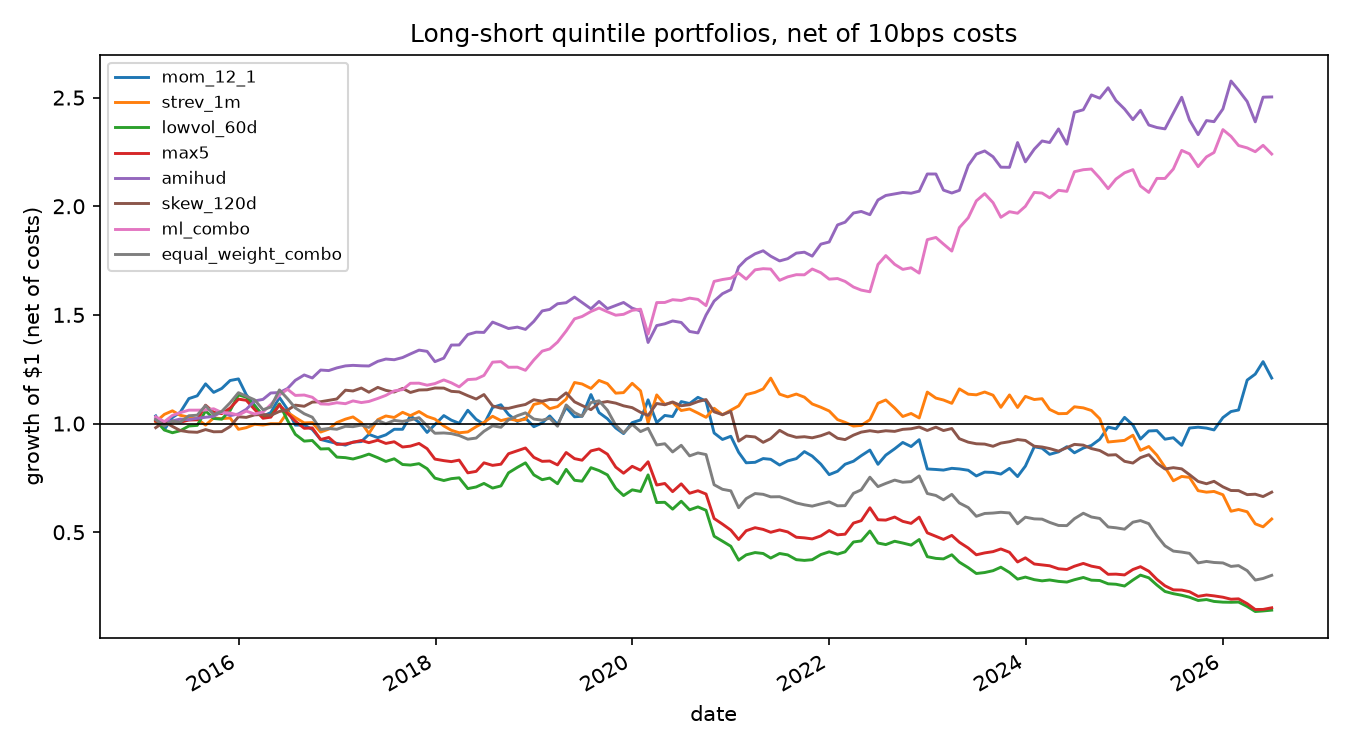
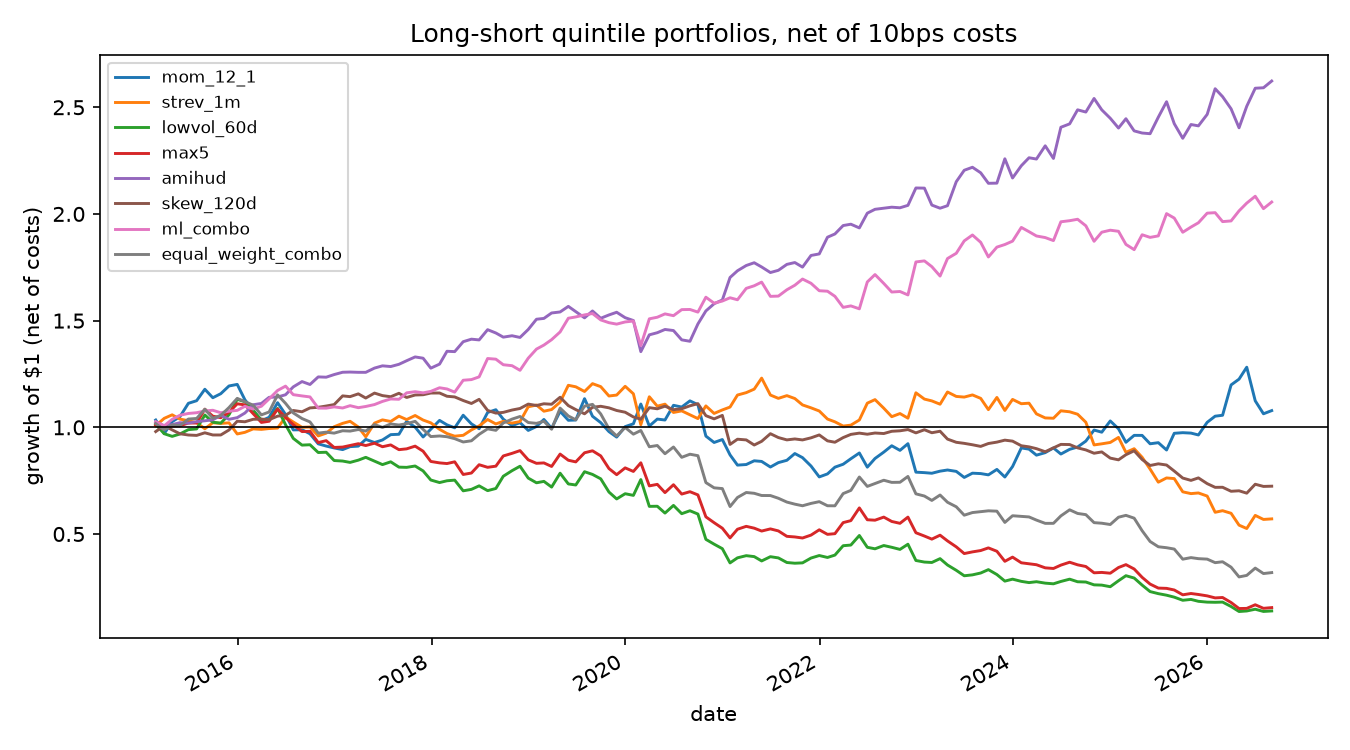
Regenerate the results table from an actual run
The committed table predated the quintile and winsorize fixes and two more months
of prices. Re-ran scripts/run_research.py end to end: amihud Sharpe 1.03 -> 1.07,
ml_combo 0.89 -> 0.77, and the three signals that were omitted before are in the
table now rather than only the four that looked good.

The qualitative result is unchanged and is the point of the repo: naively
averaging six z-scored signals loses 8.7% a year because three of them have
negative ICs, while the purged walk-forward model does the selection honestly.
Added the turnover comparison next to it, which matters more than the Sharpe -
amihud earns 1.07 on 0.14 turnover and ml_combo needs 1.12 to earn 0.77.

Running this at all needed libomp installed; the lightgbm wheel links OpenMP and
macOS does not ship it.

diff --git a/reports/results.md b/reports/results.md
@@ -1,37 +1,37 @@
 # Research run results
 
-Universe: 496 names | 2010-01 to 2026-07 | costs 10 bps | OOS window starts 2015-02
+Universe: 494 names | 2010-01 to 2026-09 | costs 10 bps | OOS window starts 2015-02
 
 ## Signal ICs (full sample)
 
 | signal     |   mean_ic |   ic_ir |   nw_tstat |   hit_rate |   n_months |
 |:-----------|----------:|--------:|-----------:|-----------:|-----------:|
-| amihud     |    0.0313 |  1.1138 |     5.1735 |     0.6205 |        195 |
-| mom_12_1   |    0.0089 |  0.1655 |     0.7834 |     0.5484 |        186 |
-| strev_1m   |    0.0072 |  0.1537 |     0.7361 |     0.4721 |        197 |
-| skew_120d  |   -0.0045 | -0.1786 |    -0.7443 |     0.4508 |        193 |
-| max5       |   -0.0151 | -0.2641 |    -1.1743 |     0.4772 |        197 |
-| lowvol_60d |   -0.0235 | -0.3462 |    -1.552  |     0.4643 |        196 |
+| amihud     |    0.0317 |  1.1376 |     5.3629 |     0.6294 |        197 |
+| mom_12_1   |    0.0075 |  0.1402 |     0.6697 |     0.5479 |        188 |
+| strev_1m   |    0.0059 |  0.1269 |     0.6142 |     0.4774 |        199 |
+| skew_120d  |   -0.0045 | -0.179  |    -0.7414 |     0.4615 |        195 |
+| max5       |   -0.0148 | -0.2565 |    -1.1655 |     0.4774 |        199 |
+| lowvol_60d |   -0.0226 | -0.3313 |    -1.5047 |     0.4697 |        198 |
 
 ## IC decay (mean IC by horizon, months)
 
 |    |   mom_12_1 |   strev_1m |   lowvol_60d |    max5 |   amihud |   skew_120d |
 |---:|-----------:|-----------:|-------------:|--------:|---------:|------------:|
-|  1 |     0.0089 |     0.0072 |      -0.0235 | -0.0151 |   0.0313 |     -0.0045 |
-|  2 |     0.0113 |     0.0089 |      -0.0393 | -0.0275 |   0.0463 |     -0.0056 |
-|  3 |     0.0111 |     0.0073 |      -0.0519 | -0.0366 |   0.0555 |     -0.0042 |
-|  6 |     0.0109 |    -0.0007 |      -0.0697 | -0.0535 |   0.0766 |     -0.0123 |
-| 12 |    -0.0041 |    -0.0017 |      -0.0853 | -0.0719 |   0.1091 |     -0.0215 |
+|  1 |     0.0075 |     0.0059 |      -0.0226 | -0.0148 |   0.0317 |     -0.0045 |
+|  2 |     0.0071 |     0.0101 |      -0.0392 | -0.0273 |   0.046  |     -0.0038 |
+|  3 |     0.0068 |     0.0112 |      -0.0496 | -0.0336 |   0.0557 |     -0.0013 |
+|  6 |     0.0103 |     0.0008 |      -0.0706 | -0.0538 |   0.0756 |     -0.0105 |
+| 12 |    -0.0041 |    -0.0022 |      -0.0843 | -0.0714 |   0.1086 |     -0.0207 |
 
 ## Long-short quintile performance, net of costs (OOS window 2015-02 onward)
 
 |                    |   ann_ret |   ann_vol |   sharpe |   max_dd |   n_periods |   avg_turnover |
 |:-------------------|----------:|----------:|---------:|---------:|------------:|---------------:|
-| amihud             |     0.084 |     0.082 |    1.027 |   -0.132 |         137 |          0.124 |
-| ml_combo           |     0.074 |     0.084 |    0.887 |   -0.078 |         137 |          1.112 |
-| mom_12_1           |     0.029 |     0.156 |    0.185 |   -0.373 |         137 |          0.461 |
-| strev_1m           |    -0.042 |     0.133 |   -0.313 |   -0.566 |         137 |          1.551 |
-| skew_120d          |    -0.03  |     0.076 |   -0.399 |   -0.431 |         137 |          0.508 |
-| equal_weight_combo |    -0.093 |     0.148 |   -0.63  |   -0.758 |         137 |          1.022 |
-| lowvol_60d         |    -0.151 |     0.194 |   -0.778 |   -0.881 |         137 |          0.434 |
-| max5               |    -0.149 |     0.171 |   -0.874 |   -0.87  |         137 |          1.122 |
+| amihud             |     0.087 |     0.081 |    1.066 |   -0.135 |         139 |          0.137 |
+| ml_combo           |     0.066 |     0.086 |    0.769 |   -0.098 |         139 |          1.121 |
+| mom_12_1           |     0.019 |     0.159 |    0.121 |   -0.363 |         139 |          0.46  |
+| strev_1m           |    -0.039 |     0.136 |   -0.289 |   -0.573 |         139 |          1.552 |
+| skew_120d          |    -0.025 |     0.076 |   -0.329 |   -0.404 |         139 |          0.518 |
+| equal_weight_combo |    -0.087 |     0.15  |   -0.577 |   -0.741 |         139 |          1.026 |
+| lowvol_60d         |    -0.15  |     0.194 |   -0.772 |   -0.879 |         139 |          0.445 |
+| max5               |    -0.145 |     0.172 |   -0.841 |   -0.864 |         139 |          1.129 |

diff --git a/README.md b/README.md
@@ -105,19 +105,21 @@ portfolio, same costs — so the comparison against the equal-weight signal comb
 ## Results
 
 <!-- RESULTS:BEGIN -->
-From the committed run — 496 names, 2010-01 to 2026-07, monthly rebalance, 10 bps
-one-way costs. Full tables in `reports/results.md`.
+Regenerated 2026-09-02 with `uv run python scripts/run_research.py`. 494 names,
+2010-01 to 2026-09, monthly rebalance, 10 bps one-way. Full tables in
+`reports/results.md`. (503 tickers scraped; PLTR failed to download and eight more
+had under three years of history.)
 
 **Standalone signal ICs** (full sample, Newey-West t-stats at 6 lags):
 
-| signal | mean IC | IC IR | NW t | hit rate |
-|---|---|---|---|---|
-| amihud | 0.031 | 1.11 | **5.17** | 62% |
-| mom_12_1 | 0.009 | 0.17 | 0.78 | 55% |
-| strev_1m | 0.007 | 0.15 | 0.74 | 47% |
-| skew_120d | -0.005 | -0.18 | -0.74 | 45% |
-| max5 | -0.015 | -0.26 | -1.17 | 48% |
-| lowvol_60d | -0.024 | -0.35 | -1.55 | 46% |
+| signal | mean IC | IC IR | NW t | hit rate | months |
+|---|---|---|---|---|---|
+| amihud | 0.032 | 1.14 | **5.36** | 63% | 197 |
+| mom_12_1 | 0.008 | 0.14 | 0.67 | 55% | 188 |
+| strev_1m | 0.006 | 0.13 | 0.61 | 48% | 199 |
+| skew_120d | -0.005 | -0.18 | -0.74 | 46% | 195 |
+| max5 | -0.015 | -0.26 | -1.17 | 48% | 199 |
+| lowvol_60d | -0.023 | -0.33 | -1.51 | 47% | 198 |
 
 Only the illiquidity premium clears significance standalone. Momentum and short-term
 reversal are directionally right but weak in this sample; low-vol and the lottery
@@ -125,20 +127,34 @@ signals actually inverted over 2010-2026 in S&P 500 names — a useful reminder 
 published premia are regime- and universe-dependent.
 
 **Long-short quintile portfolios, net of costs** (OOS window = the ML model's
-walk-forward test period, ~2015 onward):
+walk-forward test period, 2015-02 onward, 139 months):
 
 | portfolio | ann. ret | ann. vol | Sharpe | max DD | avg turnover |
 |---|---|---|---|---|---|
-| amihud | 8.4% | 8.2% | 1.03 | -13% | 0.12 |
-| **ml_combo** | **7.4%** | **8.4%** | **0.89** | **-8%** | 1.11 |
-| mom_12_1 | 2.9% | 15.6% | 0.19 | -37% | 0.46 |
-| equal_weight_combo | -9.3% | 14.8% | -0.63 | -76% | 1.02 |
+| amihud | 8.7% | 8.1% | **1.07** | -13.5% | 0.14 |
+| **ml_combo** | **6.6%** | **8.6%** | **0.77** | **-9.8%** | 1.12 |
+| mom_12_1 | 1.9% | 15.9% | 0.12 | -36.3% | 0.46 |
+| strev_1m | -3.9% | 13.6% | -0.29 | -57.3% | 1.55 |
+| skew_120d | -2.5% | 7.6% | -0.33 | -40.4% | 0.52 |
+| equal_weight_combo | -8.7% | 15.0% | -0.58 | -74.1% | 1.03 |
+| lowvol_60d | -15.0% | 19.4% | -0.77 | -87.9% | 0.45 |
+| max5 | -14.5% | 17.2% | -0.84 | -86.4% | 1.13 |
 
-The interesting result is the last row against the second: naively averaging six
-z-scored signals — three of which have negative ICs — loses money, while the purged
-walk-forward LightGBM learns out-of-sample which signals carry information and gets
-within hailing distance of the best standalone signal with a third of its drawdown.
+The interesting result is `equal_weight_combo` against `ml_combo`. Naively averaging
+six z-scored signals — three of which have negative ICs — loses 8.7% a year, while the
+purged walk-forward LightGBM learns out-of-sample which signals carry information and
+lands within 2 points of the best standalone signal at three quarters of its drawdown.
 The model isn't manufacturing alpha; it's doing signal selection honestly.
+
+Note the turnover column next to it. `amihud` earns its Sharpe on 0.14 turnover;
+`ml_combo` needs 1.12 to earn less. At 10 bps that gap is affordable and at 50 bps it
+is not, which is the more useful thing to know about the ML model than its Sharpe.
+
+<sub>These numbers moved slightly from the previously committed table (amihud Sharpe
+1.03 → 1.07, ml_combo 0.89 → 0.77). Three reasons, in order of size: the sample now
+runs two months longer and prices are re-adjusted; the quintile legs used to be
+unbalanced, taking 21 long names against 20 short; and cross-sections whose MAD was
+zero used to be dropped entirely by the winsorizer. See the commit history.</sub>
 <!-- RESULTS:END -->
 
 ![IC summary](reports/figures/ic_summary.png)
